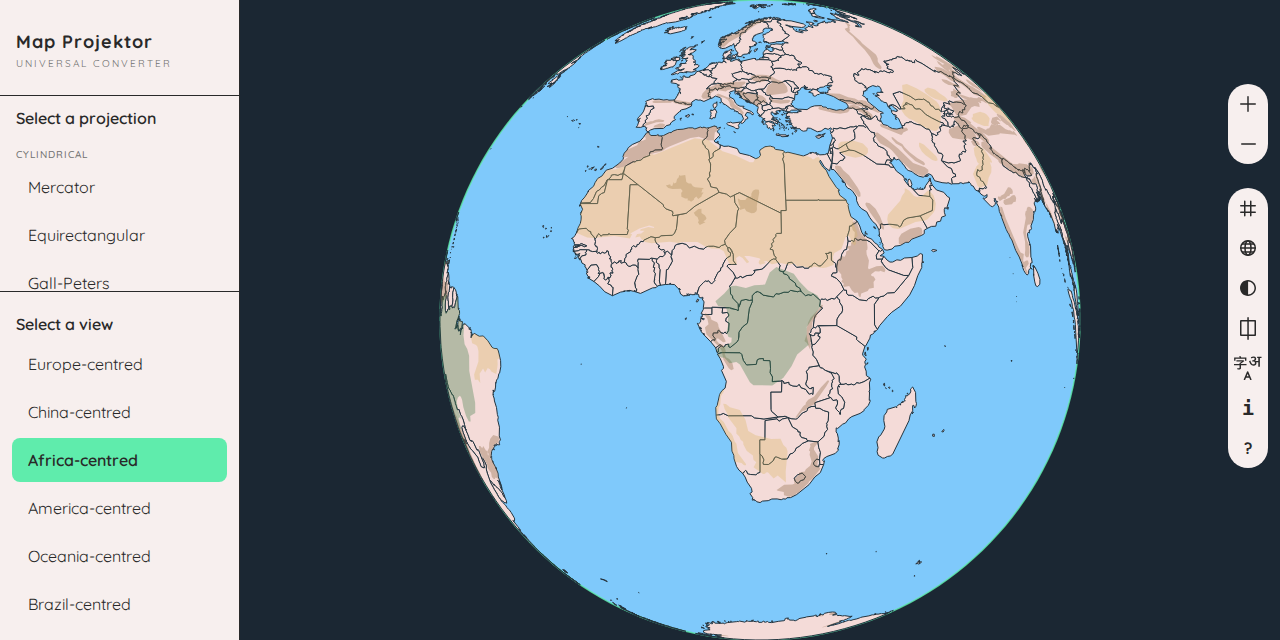
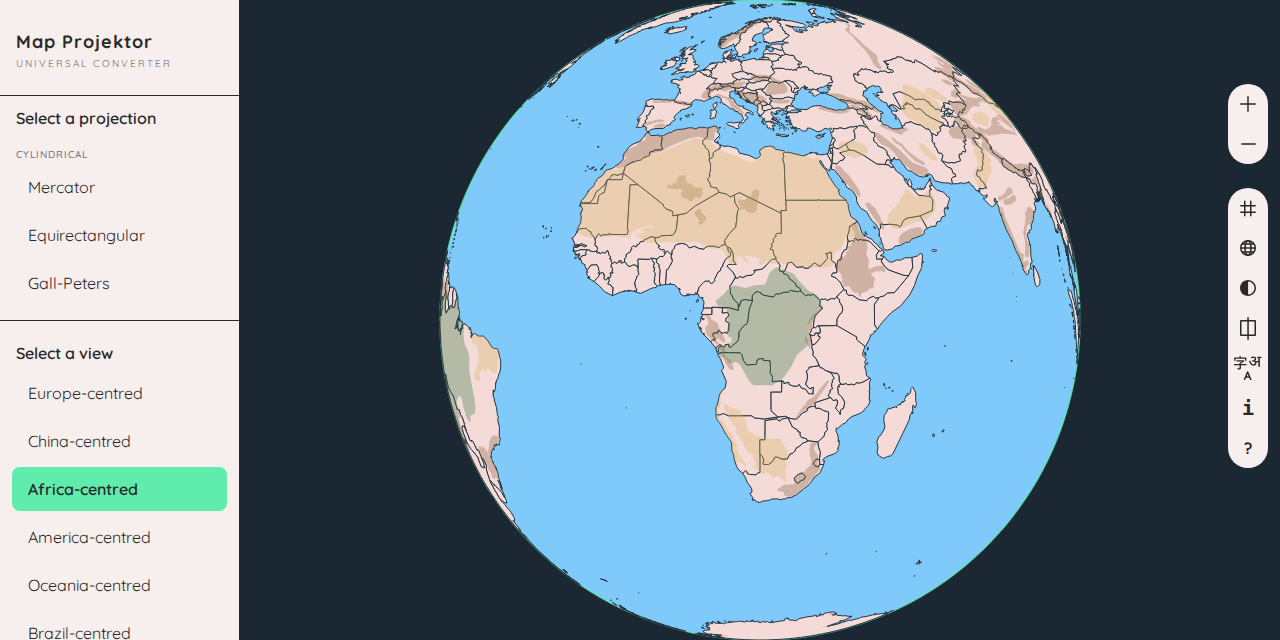
fix(sidebar): the view list no longer crushes the projection list
In tall scripts on a short window, the views took the whole sidebar and left
the projection list with no room for a button.

Changed region(s): [[0.0, 0.5, 0.1875, 0.875], [0.0, 0.9062, 0.125, 1.0]]

diff --git a/static/css/style.css b/static/css/style.css
@@ -473,6 +473,11 @@ body {
    RECENTER PRESETS
    ============================================================ */
 #recenter-panel {
+  /* Shares a short window with the projection list instead of crushing it:
+     tall scripts (Urdu) would otherwise leave the list no room for a button. */
+  flex-shrink: 1;
+  max-height: 50%;
+  overflow-y: auto;
   padding: 10px 0;
   border-top: 1px solid var(--border);
 }

diff --git a/CHANGELOG.md b/CHANGELOG.md
@@ -13,6 +13,7 @@ All notable changes to this project are documented here, grouped by sprint/sessi
 - Arabic and Urdu read right to left inside the panels; the sidebar stays on the left and the map is never mirrored
 - A short note in the welcome modal: borders and names come from Natural Earth and show the situation on the ground, not a political position
 - The "Select a projection" title stays in view while the list scrolls
+- The view list takes at most half of the sidebar and scrolls, so that a short window still shows projection buttons in tall scripts
 - Noto Sans fonts, fetched only for the language on screen, for the scripts Quicksand lacks
 - `scripts/text_fit.py`, part of `check_all.sh`: every text must fit its box in every language, on a desktop and a phone window
 - Country names per language in `static/i18n/countries/`, generated by `scripts/fetch_geodata.py` from Natural Earth: the compare card shows, sorts and searches them in the language on screen, English names still being found
